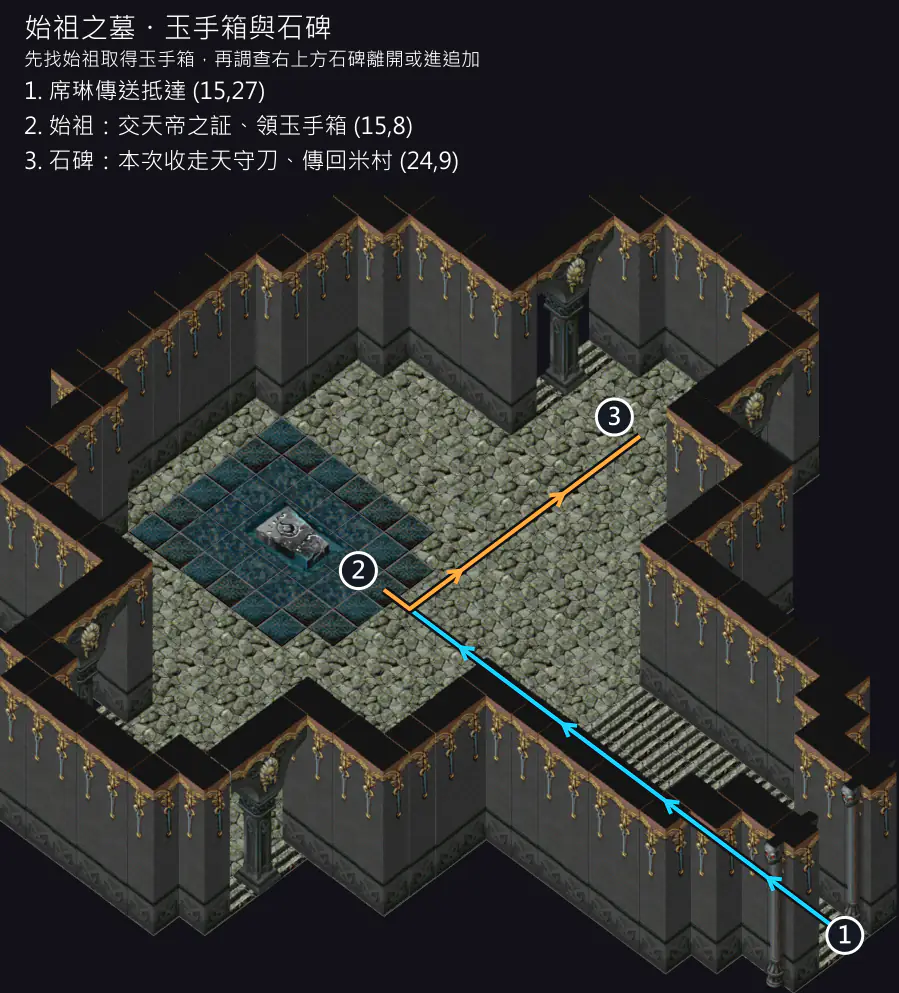
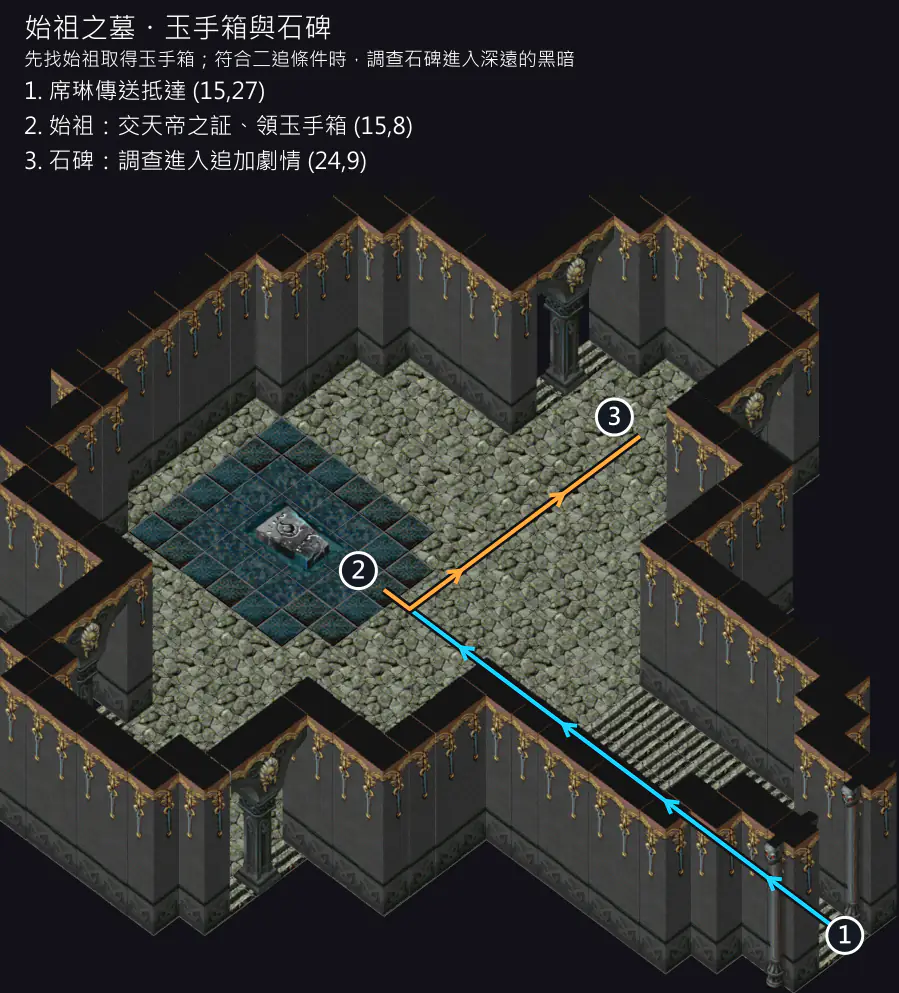
補齊二勳追加攻略與深遠的黑暗銜接地圖

Changed region(s): [[0.218, 0.0312, 0.6541, 0.0937], [0.1246, 0.1249, 0.4983, 0.1873]]

diff --git a/content/pages/任務攻略/魔力任務/二等勳章.md b/content/pages/任務攻略/魔力任務/二等勳章.md
@@ -12,7 +12,7 @@ breadcrumb:
 
 從米村登船，經無名島與地底湖前往始祖之墓。**艾爾巴與蘭國共用流程**，回村交付玉手箱後取得對應國別的第二等勳章。
 
-**主線已通關，二追尚未完成**。這次調查石碑後，天守刀被收走並傳回米村，沒有進入追加劇情；目前推測是五追尚未完成，原因待確認。
+完成五追與三追後，可在始祖之墓接續**二追**：調查石碑進入深遠的黑暗，找露比取得**隸屬的項鍊**，再回米村交付玉手箱。
 
 ## 出發前
 
@@ -22,7 +22,7 @@ breadcrumb:
 | 接任地點 | 米諾基亞村的月心 `(119,103)` |
 | 戰鬥順序 | 馬杜克兩連戰 → 時賴 → 仲時兩連戰 |
 | 主線獎勵 | 對應國別的第二等勳章稱號 |
-| 二追 | 另有五追、三追等前置，見文末；不影響這次主線領勳章 |
+| 二追前置 | 完成五追與三追；本趟接任取得的天帝之証須保留至交給始祖 |
 
 還沒開米村傳送點，可看[米諾基亞村地圖與前往方式](/地圖/庫魯克斯島/米諾基亞村)。
 
@@ -130,24 +130,43 @@ breadcrumb:
 
 <a href="/img/pages/任務攻略/魔力任務/二等勳章/46061.webp"><img src="/img/pages/任務攻略/魔力任務/二等勳章/preview/46061.webp" alt="仲時戰後・找席琳進始祖之墓" width="1000" height="834" loading="lazy" decoding="async" /></a>
 
-## 7. 取得玉手箱、調查石碑，回米村領稱號
+## 7. 取得玉手箱，前往石碑
 
-先找**始祖** `(15,8)`，交出天帝之証、取得**玉手箱**，再往右上調查**石碑** `(24,9)`。
+先找**始祖** `(15,8)`，交出天帝之証、取得**玉手箱**。符合二追條件時，天守刀會保留，接著往右上調查**石碑** `(24,9)`，進入**深遠的黑暗**。
 
-**這次在石碑處被收走天守刀，直接傳回米村**。沒有進入深遠的黑暗，也沒有取得隸屬的項鍊。
+不進入追加的分支會收走天守刀並傳回米村，直接接下方「回米村找席琳領稱號」。
 
 <a href="/img/pages/任務攻略/魔力任務/二等勳章/46063.webp"><img src="/img/pages/任務攻略/魔力任務/二等勳章/preview/46063.webp" alt="始祖之墓・玉手箱與石碑" width="899" height="993" loading="lazy" decoding="async" /></a>
 
-回村後找**月心** `(119,103)` 進屋，再與**席琳** `(11,8)` 交談、交付玉手箱，取得**艾爾巴第二等勳章／蘭國第二等勳章**，主線完成。
+## 8. 追加支線（二追）：深遠的黑暗
 
-## 追加支線（二追）：本次未進入
+前置為完成[五追：挑戰露比](/任務攻略/魔力任務/五等勳章)與[三追](/任務攻略/魔力任務/三等勳章)。**接任取得的天帝之証若中途丟棄，即使已完成五追與三追，這趟也無法進入追加**，須結束本趟後重解二等勳章。
 
-二追前置包含**完成五追與三追**。這次五追尚未打露比；調查石碑後，**天守刀被收走，並傳回米村**，推測是缺五追，未能進入追加。
+1. 領取玉手箱後，走到石碑前 `(24,10)`，調查面前的**石碑 `(24,9)`**。這裡是交談傳送，會換到深遠的黑暗。
+2. 抵達約 `(9,9)～(9,10)` 附近後，稍往北走到 **`(9,8)` 附近**，找露比交談。
+3. 對話後取得**隸屬的項鍊**，並傳回**米諾基亞村 `(23,116)`**。這段是劇情對話，不用再打一場露比。
 
-符合追加條件時，依原攻略會由石碑進入**深遠的黑暗**，找露比取得**隸屬的項鍊**。這段本次未走到。
+<a href="/img/pages/任務攻略/魔力任務/二等勳章/extra-linked.webp"><img src="/img/pages/任務攻略/魔力任務/二等勳章/preview/extra-linked.webp" alt="二追銜接地圖：始祖之墓石碑傳送到深遠的黑暗，再找露比取得項鍊回米村" width="1000" height="1500" loading="lazy" decoding="async" /></a>
+
+深遠的黑暗場景幾乎全黑，露比就在抵達處北側，不必另外找出口；與她交談後即可回村。
+
+<details>
+<summary>展開深遠的黑暗位置圖</summary>
+
+<a href="/img/pages/任務攻略/魔力任務/二等勳章/46064.webp"><img src="/img/pages/任務攻略/魔力任務/二等勳章/preview/46064.webp" alt="深遠的黑暗：從9,10附近往北走至9,8附近與露比交談" width="900" height="238" loading="lazy" decoding="async" /></a>
+
+</details>
+
+## 9. 回米村找席琳領稱號
+
+回村後找**月心** `(119,103)` 進屋，再與**席琳** `(11,8)` 交談、交付**玉手箱**，取得**艾爾巴第二等勳章／蘭國第二等勳章**。
 
 ## 參考資料
 
 - [蔚藍幻境－始祖之墓](https://cg.skyey.tw/errand/mdac02.htm)
 - [魔力百科－始祖之墓](https://www.molibaike.com/mission/Detail/fe22afc4-d5a7-46f7-8b15-ec98037647b1)：固定地圖地點與石碑分支。
 - [17173－二等勳章任務詳細攻略](https://cg.17173.com/content/2015-06-12/20150612173637987.shtml)：戰鬥提醒。
+
+## 異動紀錄
+
+- 2026-09-28：補上二追石碑與深遠的黑暗銜接地圖、露比交談位置、項鍊取得及回村領稱號流程。
